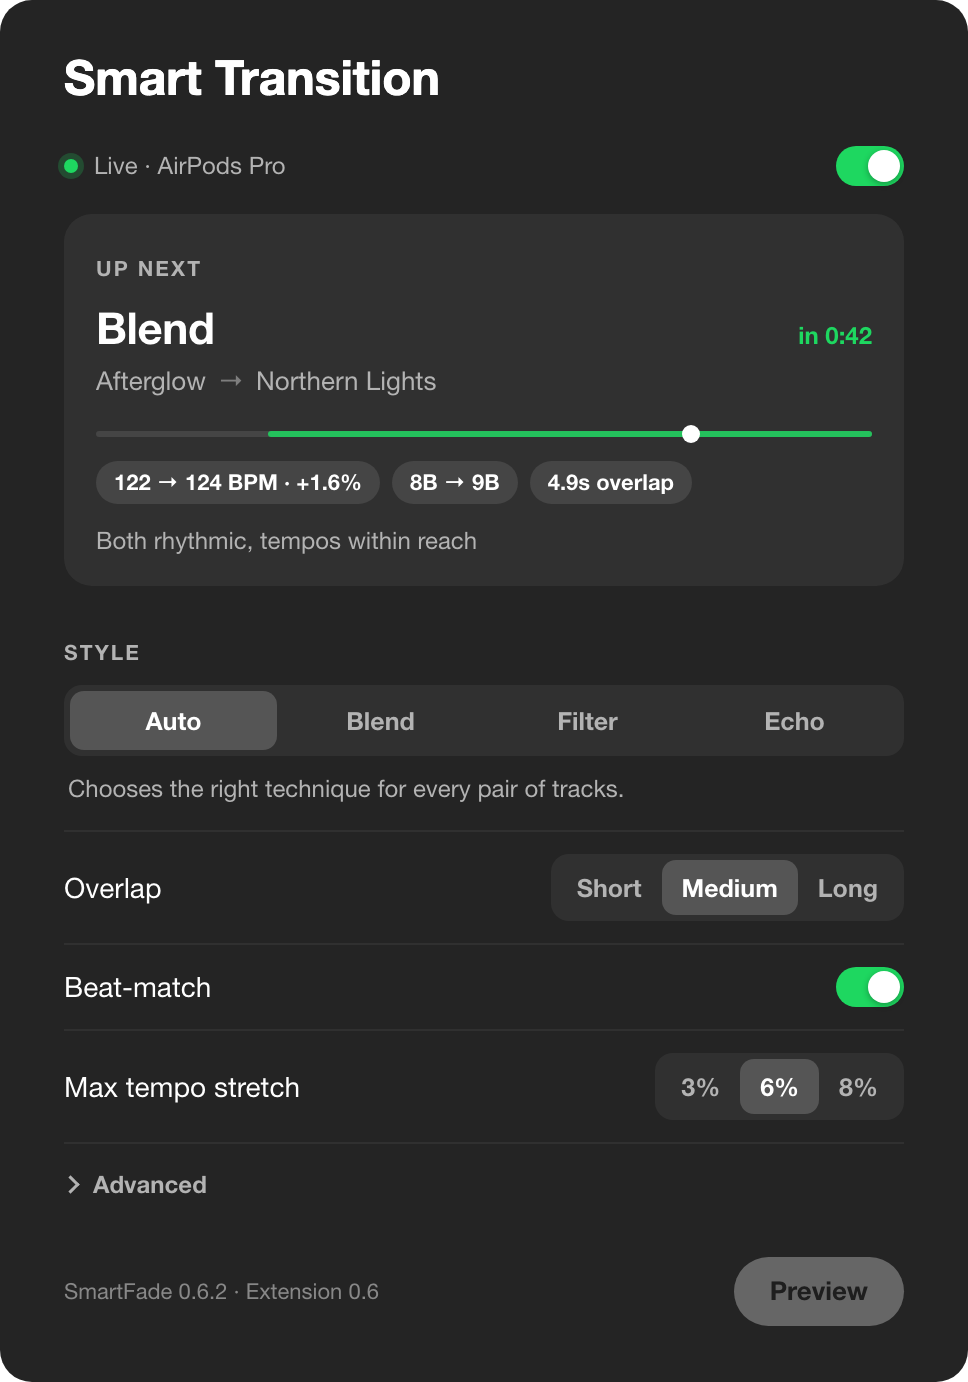
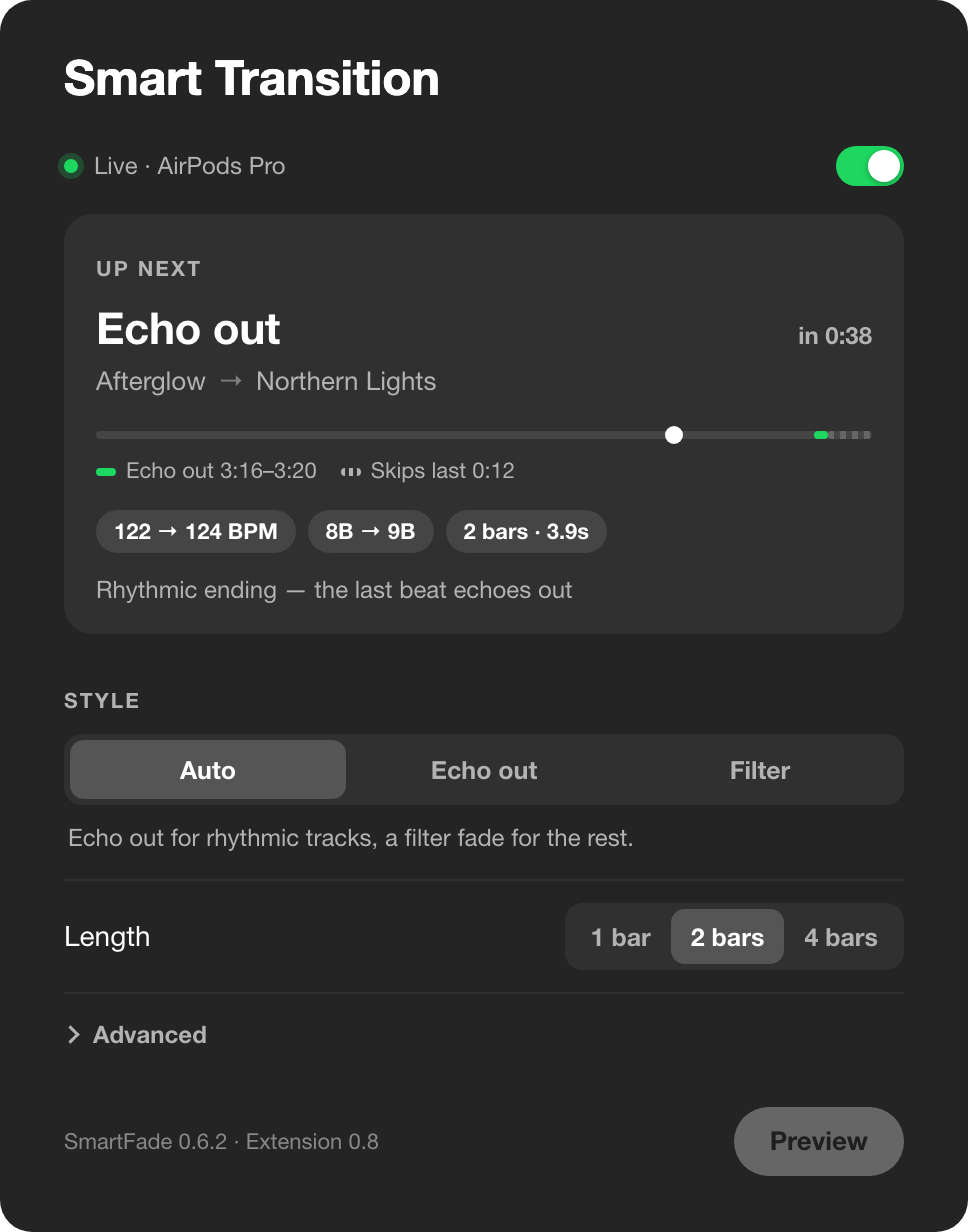
README: describe 0.8 end-only transitions
- New diagram: song plays untouched, only the last 1–4 bars are
  filtered, final beat echoes out while the next track fades in
- Refresh panel screenshot and social preview with the 0.8 UI
- Tagline: "Smooth transitions for Spotify on macOS."

diff --git a/README.md b/README.md
@@ -4,13 +4,13 @@
 
 <h1 align="center">SmartFade</h1>
 
-<p align="center">Crossfade for Spotify free on macOS.</p>
+<p align="center">Smooth transitions for Spotify on macOS.</p>
 
 <br>
 
 <picture>
   <source media="(prefers-color-scheme: dark)" srcset="assets/how-dark.svg">
-  <img src="assets/how-light.svg" width="100%" alt="The outgoing track slows slightly, then overlaps the incoming track with beats aligned">
+  <img src="assets/how-light.svg" width="100%" alt="The song plays at original speed; only its last 1–4 bars are filtered, the final beat echoes out and the next track fades in under the echo">
 </picture>
 
 <p align="center">
